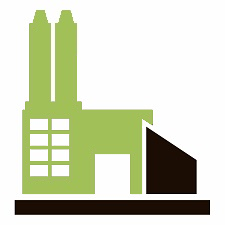
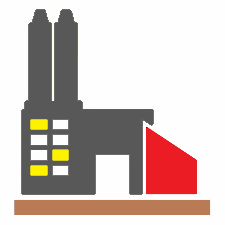
whefuh

diff --git a/index.html b/index.html
@@ -97,7 +97,7 @@
         </div>
         <div class="col-md-4">
           <span class="fa-stack fa-4x">
-            <img class="img-fluid d-block mx-auto" src="img/.png" alt="">
+            <img class="img-fluid d-block mx-auto" src="img/industry2d.png" alt="">
           </span>
           <h4 class="service-heading"><br>Industrial</h4>
           <p class="text-muted">You may call us directly at 647-961-7426 and you'll have a chance to speak with our technician, who is certified in many areas and types of pests regarding pest control.</p>
